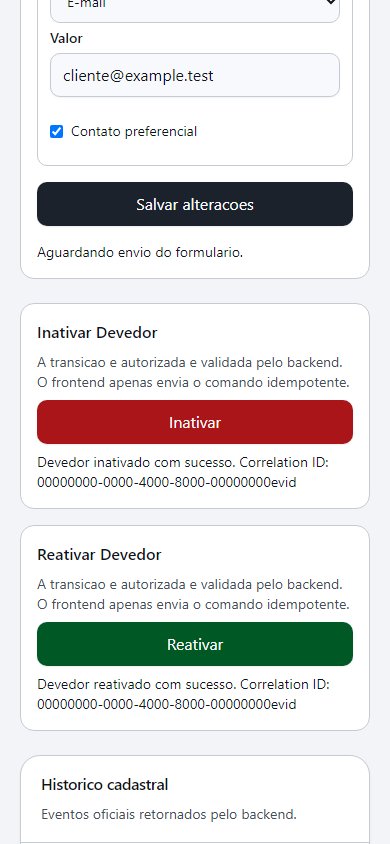
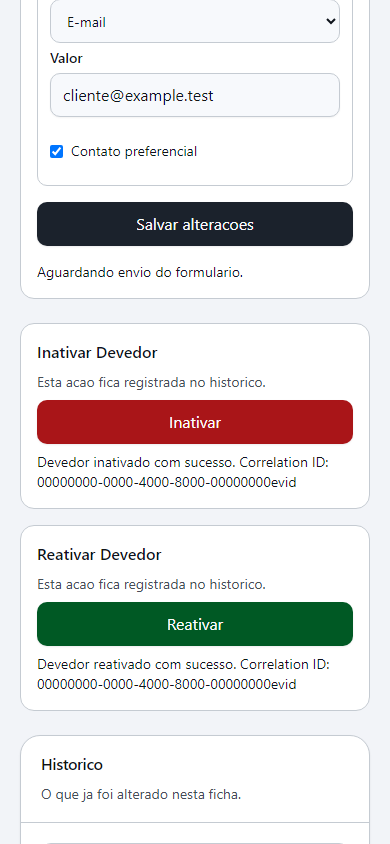
feat(frontend): devedor abre pelo emprestimo e historico deixa de ser JSON
IMP-317 e conclusao do IMP-315 nos componentes.

O bloco de emprestimos subiu para antes do formulario de edicao, dos
botoes de estado e do historico. No IMP-310 ele tinha ficado no rodape:
cumpria o criterio do backlog e nao o pedido, que era "ao abrir um devedor
**ja** termos as informacoes do emprestimo".

O historico imprimia `criar.aggregate_criado | ok` seguido do payload com
devedor_id, carteira_id e idempotency_key. Agora diz "Cadastro", "Dados
atualizados", "Inativacao" ou "Reativacao", com o detalhe tecnico
recolhido — continua acessivel para suporte e auditoria, sem estar na
cara de quem opera. CPF ganhou mascara na ficha e na tabela, e o rotulo
"Documento" virou "CPF".

Varredura final da prosa de arquitetura: oito frases substituidas em
todos os componentes de uma vez, entre elas "o backend permanece
autoridade de todos os valores e estados", "o frontend apenas envia o
comando idempotente", "Documento e imutavel na API" e "Timezone
governado: America/Sao_Paulo...". O painel de negativa deixou de dizer
"denied" tambem em Devedores.

Quarta colisao com um guardrail, e quarta vez que ele nao foi afrouxado:
o gate de RBAC de `devedores-policy.ts` recusa **qualquer asterisco** no
arquivo, para impedir permissao com curinga — o que torna comentario de
bloco impossivel ali. A regra e mais ampla do que precisa ser; o
comentario novo usa `//` e a regra fica de pe.

Um teste que eu mesmo escrevi pegou prosa que eu tinha deixado passar: a
[…]

diff --git a/frontend/src/components/devedores/devedores.tsx b/frontend/src/components/devedores/devedores.tsx
@@ -4,12 +4,14 @@ import type { ReactNode } from "react";
 
 import type { Devedor, DevedorActionState, DevedorHistory, DevedoresList, DevedoresProblem, DevedoresReadResult } from "../../lib/devedores/devedores-policy";
 import { hasAnyComercialPermission } from "../../lib/comercial/comercial-policy";
+import { cpf, data as formatarData } from "../../lib/formato/brasileiro";
 import {
   DEVEDOR_CREATE_PERMISSION,
   DEVEDOR_INACTIVATE_PERMISSION,
   DEVEDOR_REACTIVATE_PERMISSION,
   DEVEDOR_UPDATE_PERMISSION,
   hasExactPermission,
+  rotuloEvento,
 } from "../../lib/devedores/devedores-policy";
 import { Alert, AlertDescription, AlertTitle } from "../ui/alert";
 import { Button } from "../ui/button";
@@ -20,12 +22,6 @@ import { Skeleton } from "../ui/skeleton";
 
 import { DevedorForm } from "./devedor-form.client";
 import { DevedorStatusDialog } from "./devedor-status-dialog.client";
-
-const DATE_TIME_FORMATTER = new Intl.DateTimeFormat("pt-BR", {
-  dateStyle: "short",
-  timeStyle: "short",
-  timeZone: "America/Sao_Paulo",
-});
 
 type Action = (state: DevedorActionState, formData: FormData) => Promise<DevedorActionState>;
 
@@ -77,7 +73,7 @@ function ProblemState({ problem }: Readonly<{ problem: DevedoresProblem }>) {
 }
 
 function DeniedState({ children = "Voce nao possui permissao para esta acao." }: Readonly<{ children?: ReactNode }>) {
-  return <Alert><AlertTitle>denied</AlertTitle><AlertDescription>{children}</AlertDescription></Alert>;
+  return <Alert><AlertTitle>Sem permissao</AlertTitle><AlertDescription>{children}</AlertDescription></Alert>;
 }
 
 function SectionResult<T>({ result, recoveryHref, children }: Readonly<{
@@ -93,36 +89,31 @@ function SectionResult<T>({ result, recoveryHref, children }: Readonly<{
   return children(result.data);
 }
 
-function formatDateTime(value: string): string {
-  const parsed = new Date(value);
-  return Number.isNaN(parsed.getTime()) ? value : DATE_TIME_FORMATTER.format(parsed);
-}
-
 function DevedorSummary({ devedor }: Readonly<{ devedor: Devedor }>) {
   return (
     <dl className="grid gap-2 text-sm sm:grid-cols-2">
-      <div><dt className="text-muted-foreground">Documento</dt><dd className="break-words font-semibold">{devedor.documento}</dd></div>
+      <div><dt className="text-muted-foreground">CPF</dt><dd className="break-words font-semibold">{cpf(devedor.documento)}</dd></div>
       <div><dt className="text-muted-foreground">Estado</dt><dd>{devedor.estado}</dd></div>
-      <div><dt className="text-muted-foreground">Criado em</dt><dd><time dateTime={devedor.criado_em}>{formatDateTime(devedor.criado_em)}</time></dd></div>
-      <div><dt className="text-muted-foreground">Atualizado em</dt><dd>{devedor.atualizado_em ? <time dateTime={devedor.atualizado_em}>{formatDateTime(devedor.atualizado_em)}</time> : "Nao informado"}</dd></div>
+      <div><dt className="text-muted-foreground">Criado em</dt><dd><time dateTime={devedor.criado_em}>{formatarData(devedor.criado_em)}</time></dd></div>
+      <div><dt className="text-muted-foreground">Atualizado em</dt><dd>{devedor.atualizado_em ? <time dateTime={devedor.atualizado_em}>{formatarData(devedor.atualizado_em)}</time> : "Nao informado"}</dd></div>
     </dl>
   );
 }
 
 function DevedoresTable({ list }: Readonly<{ list: DevedoresList }>) {
-  if (list.items.length === 0) return <p role="status">empty: nenhum Devedor foi retornado para a Carteira corrente.</p>;
+  if (list.items.length === 0) return <p role="status">Nenhum devedor cadastrado ainda.</p>;
   return (
     <div aria-label="Tabela de Devedores com overflow" className="overflow-x-auto rounded-md border" role="region" tabIndex={0}>
       <table className="w-full min-w-[48rem] text-left text-sm">
         <caption className="sr-only">Devedores da Carteira corrente</caption>
         <thead className="bg-muted">
-          <tr><th className="p-2">Nome</th><th className="p-2">Documento</th><th className="p-2">Estado</th><th className="p-2">Contato</th><th className="p-2">Detalhe</th></tr>
+          <tr><th className="p-2">Nome</th><th className="p-2">CPF</th><th className="p-2">Estado</th><th className="p-2">Contato</th><th className="p-2">Detalhe</th></tr>
         </thead>
         <tbody>
           {list.items.map((item) => (
             <tr className="border-t" key={item.id}>
               <td className="break-words p-2 font-semibold">{item.nome}</td>
-              <td className="break-words p-2">{item.documento}</td>
+              <td className="break-words p-2">{cpf(item.documento)}</td>
               <td className="p-2">{item.estado}</td>
               <td className="break-words p-2">{item.contatos[0]?.valor ?? "Sem contato"}</td>
               <td className="p-2"><Link className="font-semibold text-primary underline-offset-4 hover:underline" href={`/app/devedores/${item.id}`}>Consultar</Link></td>
@@ -130,7 +121,7 @@ function DevedoresTable({ list }: Readonly<{ list: DevedoresList }>) {
           ))}
         </tbody>
       </table>
-      <p className="px-2 py-3 text-xs text-muted-foreground">Total oficial: <span className="tabular-nums">{list.total}</span> | pagina {list.page} de {list.pages}</p>
+      <p className="px-2 py-3 text-xs text-muted-foreground">Total: <span className="tabular-nums">{list.total}</span> | pagina {list.page} de {list.pages}</p>
     </div>
   );
 }
@@ -166,7 +157,7 @@ export function DevedoresPage({ createAction, filters, initialState, permissions
       <header>
         <p className="text-xs font-semibold uppercase tracking-[0.12em] text-muted-foreground">Cadastro</p>
         <h1 className="text-balance text-3xl font-bold tracking-tight">Devedores</h1>
-        <p className="mt-2 max-w-3xl text-sm text-muted-foreground">Jornada P0 de Devedores da Carteira corrente. O backend permanece autoridade dos dados cadastrais e dos conflitos.</p>
+        <p className="mt-2 max-w-3xl text-sm text-muted-foreground">Quem tomou emprestado com voce.</p>
       </header>
       <SearchForm filters={filters} />
       <SectionResult result={result} recoveryHref={recoveryHref}>
@@ -183,14 +174,23 @@ export function DevedoresPage({ createAction, filters, initialState, permissions
 }
 
 function HistoryView({ history }: Readonly<{ history: DevedorHistory }>) {
-  if (history.eventos.length === 0) return <p role="status">empty: nenhum evento de historico retornado.</p>;
+  // empty: sem evento nenhum, dito em frase e nao em rotulo de estado.
+  if (history.eventos.length === 0) return <p role="status">Nenhuma alteracao registrada ate agora.</p>;
   return (
     <ol className="grid gap-2">
       {history.eventos.map((event) => (
         <li className="rounded-md border p-3" key={`${event.acao}-${event.status}-${event.criado_em}`}>
-          <p className="font-semibold">{event.acao} | {event.status}</p>
-          <p className="text-sm text-muted-foreground"><time dateTime={event.criado_em}>{formatDateTime(event.criado_em)}</time></p>
-          {event.detalhes ? <p className="mt-1 break-words text-sm">{event.detalhes}</p> : null}
+          <p className="font-semibold">{rotuloEvento(event.acao, event.status)}</p>
+          <p className="text-sm text-muted-foreground"><time dateTime={event.criado_em}>{formatarData(event.criado_em)}</time></p>
+          {/* `detalhes` e o payload tecnico do evento, com identificadores e
+              chave de idempotencia. Serve a suporte e auditoria, nunca a quem
+              opera — por isso fechado, em vez de despejado na tela. */}
+          {event.detalhes ? (
+            <details className="mt-2">
+              <summary className="cursor-pointer text-xs text-muted-foreground">Detalhe tecnico</summary>
+              <p className="mt-1 break-words text-xs">{event.detalhes}</p>
+            </details>
+          ) : null}
         </li>
       ))}
     </ol>
@@ -209,7 +209,7 @@ export function DevedorDetailPage({ devedor, history, initialState, inactivateAc
         {(item) => (
           <>
             <Card>
-              <CardHeader><CardTitle>{item.nome}</CardTitle><CardDescription>Detalhe cadastral oficial do Devedor.</CardDescription></CardHeader>
+              <CardHeader><CardTitle>{item.nome}</CardTitle><CardDescription>Ficha do devedor.</CardDescription></CardHeader>
               <CardContent className="grid gap-4">
                 <DevedorSummary devedor={item} />
                 {canOpenCommercial && item.estado === "ativo"
@@ -226,7 +226,7 @@ export function DevedorDetailPage({ devedor, history, initialState, inactivateAc
         )}
       </SectionResult>
       <Card>
-        <CardHeader><CardTitle>Historico cadastral</CardTitle><CardDescription>Eventos oficiais retornados pelo backend.</CardDescription></CardHeader>
+        <CardHeader><CardTitle>Historico</CardTitle><CardDescription>O que ja foi alterado nesta ficha.</CardDescription></CardHeader>
         <CardContent><SectionResult result={history} recoveryHref={recoveryHref}>{(data) => <HistoryView history={data} />}</SectionResult></CardContent>
       </Card>
     </div>

diff --git a/frontend/src/components/dashboard/dashboard.tsx b/frontend/src/components/dashboard/dashboard.tsx
@@ -160,11 +160,11 @@ export function CollectionView({ data }: Readonly<{ data: CollectionQueue }>) {
 }
 
 async function SummarySection({ result, recoveryHref }: Readonly<{ result: DashboardProps["summary"]; recoveryHref: string }>) {
-  return <SectionCard title="Resumo da Carteira" description="Contagens e totais apresentados exatamente como recebidos."><SectionResult result={await result} recoveryHref={recoveryHref}>{(data) => <SummaryView data={data} />}</SectionResult></SectionCard>;
+  return <SectionCard title="Resumo da Carteira" description="Resumo da sua carteira."><SectionResult result={await result} recoveryHref={recoveryHref}>{(data) => <SummaryView data={data} />}</SectionResult></SectionCard>;
 }
 
 async function DueDatesSection({ result, recoveryHref }: Readonly<{ result: DashboardProps["dueDates"]; recoveryHref: string }>) {
-  return <SectionCard title="Vencimentos" description="Situacoes oficiais na data de referencia; nenhuma classificacao e calculada aqui."><SectionResult result={await result} recoveryHref={recoveryHref}>{(data) => <DueDatesView data={data} />}</SectionResult></SectionCard>;
+  return <SectionCard title="Vencimentos" description="Parcelas e suas situacoes na data escolhida."><SectionResult result={await result} recoveryHref={recoveryHref}>{(data) => <DueDatesView data={data} />}</SectionResult></SectionCard>;
 }
 
 async function AgendaSection({ result, recoveryHref }: Readonly<{ result: DashboardProps["agenda"]; recoveryHref: string }>) {
@@ -183,13 +183,13 @@ export function Dashboard({ period, recoveryHref, summary, dueDates, agenda, col
   return (
     <div className="grid min-w-0 gap-6">
       <header className="flex flex-col gap-4 lg:flex-row lg:items-end lg:justify-between">
-        <div><p className="text-xs font-semibold uppercase tracking-[0.12em] text-muted-foreground">Operacao diaria</p><h1 className="text-balance text-3xl font-bold tracking-tight">Dashboard</h1><p className="mt-2 max-w-3xl text-sm text-muted-foreground">Snapshot contratual da Carteira ativa. O backend permanece autoridade de todos os valores e estados.</p></div>
+        <div><p className="text-xs font-semibold uppercase tracking-[0.12em] text-muted-foreground">Operacao diaria</p><h1 className="text-balance text-3xl font-bold tracking-tight">Dashboard</h1><p className="mt-2 max-w-3xl text-sm text-muted-foreground">Como esta a sua operacao hoje. Situacao da sua carteira na data escolhida.</p></div>
         <form className="flex flex-col gap-2 sm:flex-row sm:items-end" method="get">
           <div className="grid gap-1"><Label htmlFor="data_referencia">Data de referencia</Label><Input autoComplete="off" defaultValue={period.referenceDate} id="data_referencia" max={MAX_REFERENCE_DATE} min={MIN_REFERENCE_DATE} name="data_referencia" required type="date" /></div>
           <button className="min-h-(--size-control) rounded-md bg-primary px-4 py-2 text-sm font-semibold text-primary-foreground transition-colors hover:bg-primary/90" type="submit">Atualizar</button>
         </form>
       </header>
-      <p className="text-xs text-muted-foreground">Timezone governado: America/Sao_Paulo. A janela usa os limites civis e o offset vigente na data selecionada.</p>
+      <p className="text-xs text-muted-foreground"></p>
       <div className="grid min-w-0 gap-5 xl:grid-cols-2">
         <Suspense fallback={<DashboardLoadingState title="Resumo da Carteira" />}><SummarySection recoveryHref={recoveryHref} result={summary} /></Suspense>
         <Suspense fallback={<DashboardLoadingState title="Vencimentos" />}><DueDatesSection recoveryHref={recoveryHref} result={dueDates} /></Suspense>

diff --git a/frontend/tests/devedores-e2e/devedores.spec.ts b/frontend/tests/devedores-e2e/devedores.spec.ts
@@ -64,7 +64,10 @@ test("detalhe, historico e comandos idempotentes respeitam RBAC exato", async ({
   await page.goto("/app/devedores");
   await page.getByRole("link", { name: "Consultar" }).first().click();
   await expect(page.getByRole("heading", { name: "Cliente Devedor" })).toBeVisible();
-  await expect(page.getByText("criar.sucesso")).toBeVisible();
+  // O historico deixou de exibir o nome interno do evento. O detalhe tecnico
+  // continua acessivel, porem fechado.
+  await expect(page.getByText("Cadastro", { exact: true }).first()).toBeVisible();
+  await expect(page.getByText("criar.sucesso")).toHaveCount(0);
   // Abrir o Devedor ja mostra a situacao dos emprestimos dele, agrupada pelo
   // estado que o backend devolveu. Grupo sem nada nao aparece.
   await expect(page.getByRole("heading", { name: "Emprestimos deste devedor" })).toBeVisible();
@@ -85,7 +88,7 @@ test("detalhe, historico e comandos idempotentes respeitam RBAC exato", async ({
   await expect(page.getByText("Sem permissao de atualizar Devedor.")).toBeVisible();
   await expect(page.getByText("Sem permissao de inativar Devedor.")).toBeVisible();
   // Sem motor.emprestimo.ler o bloco nega, e o detalhe do Devedor continua util.
-  await expect(page.getByText("Modulo Motor indisponivel para as permissoes efetivas atuais.")).toBeVisible();
+  await expect(page.getByText("Seu acesso atual nao permite ver os emprestimos.")).toBeVisible();
   await expect(page.getByRole("heading", { name: "Cliente Devedor" })).toBeVisible();
 });
 
@@ -98,7 +101,8 @@ test("busca por documento, estados vazios e erros 404/409/422 sao seguros", asyn
   await expect(page).toHaveURL(/\/login$/);
   await login(page, "VAZIO");
   await page.goto("/app/devedores");
-  await expect(page.getByText(/empty/)).toBeVisible();
+  // empty: a ausencia e dita em frase.
+  await expect(page.getByText(/Nenhum devedor cadastrado ainda/)).toBeVisible();
   await page.getByRole("button", { name: "Sair" }).click();
   await expect(page).toHaveURL(/\/login$/);
   await login(page, "NAO-ENCONTRADO");

diff --git a/frontend/tests/component/devedores.test.tsx b/frontend/tests/component/devedores.test.tsx
@@ -42,8 +42,10 @@ describe("Devedores", () => {
     const { rerender } = render(<DevedoresLoadingState />);
     expect(screen.getByRole("status", { name: "loading Devedores" })).toBeInTheDocument();
     rerender(<DevedoresPage createAction={action} filters={{}} initialState={initial} permissions={["devedor.ler", "devedor.criar"]} recoveryHref="/session/recover" result={{ kind: "ready", data: { items: [], page: 1, pages: 0, size: 20, total: 0 } }} />);
-    expect(screen.getAllByRole("status").some((item) => item.textContent?.includes("empty"))).toBe(true);
-    expect(screen.getByText("Dados enviados ao backend oficial. Tenant e Carteira nao fazem parte do formulario.")).toBeVisible();
+    // empty: a ausencia e dita em frase, nao com rotulo de estado tecnico.
+    expect(screen.getAllByRole("status").some((item) => item.textContent?.includes("Nenhum devedor cadastrado ainda"))).toBe(true);
+    // A tela nao explica mais a propria arquitetura ao operador.
+    expect(screen.queryByText(/backend|Tenant e Carteira|idempotente/i)).not.toBeInTheDocument();
     expect(screen.queryByRole("link", { name: /Contrato|Motor|Agenda|Comunicacao/i })).not.toBeInTheDocument();
   });
 

diff --git a/frontend/src/lib/devedores/devedores-policy.ts b/frontend/src/lib/devedores/devedores-policy.ts
@@ -103,3 +103,25 @@ export function formString(formData: FormData, key: string, max: number): string
 export function formBoolean(formData: FormData, key: string): boolean {
   return formData.get(key) === "on" || formData.get(key) === "true";
 }
+
+// Traduz o evento do historico para o que o operador entende.
+//
+// O registro chega como `criar.aggregate_criado | ok`, que descreve a mecanica
+// interna. Quem abre a ficha quer saber que o cadastro foi feito, e quando.
+//
+// Comentario de linha, e nao de bloco: o gate de RBAC deste arquivo recusa
+// qualquer asterisco, para impedir permissao com curinga. A regra e mais ampla
+// do que precisa ser, mas e cega por desenho e nao sera afrouxada por
+// comodidade de comentario.
+const ROTULO_ACAO: Readonly<Record<string, string>> = {
+  criar: "Cadastro",
+  atualizar: "Dados atualizados",
+  inativar: "Inativacao",
+  reativar: "Reativacao",
+};
+
+export function rotuloEvento(acao: string, status: string): string {
+  const [familia = acao] = acao.split(".");
+  const titulo = ROTULO_ACAO[familia] ?? acao;
+  return status === "ok" || status === "sucesso" ? titulo : `${titulo} — ${status}`;
+}

diff --git a/frontend/src/components/devedores/devedor-form.client.tsx b/frontend/src/components/devedores/devedor-form.client.tsx
@@ -22,7 +22,7 @@ export function DevedorForm({ action, devedor, initialState, mode }: DevedorForm
       <div>
         <h2 className="text-lg font-semibold">{mode === "create" ? "Cadastrar Devedor" : "Atualizar dados cadastrais"}</h2>
         <p className="text-sm text-muted-foreground">
-          Dados enviados ao backend oficial. Tenant e Carteira nao fazem parte do formulario.
+          Preencha os dados do devedor.
         </p>
       </div>
       {mode === "update" && devedor ? <input name="devedor_id" type="hidden" value={devedor.id} /> : null}
@@ -38,7 +38,7 @@ export function DevedorForm({ action, devedor, initialState, mode }: DevedorForm
           name="documento"
           required={mode === "create"}
         />
-        {mode === "update" ? <p className="text-xs text-muted-foreground">Documento e imutavel na API.</p> : null}
+        {mode === "update" ? <p className="text-xs text-muted-foreground">O CPF nao pode ser alterado depois do cadastro.</p> : null}
       </div>
       <div className="grid gap-2">
         <Label htmlFor={`${mode}-nome`}>Nome</Label>

diff --git a/frontend/src/app/app/devedores/[devedorId]/page.tsx b/frontend/src/app/app/devedores/[devedorId]/page.tsx
@@ -39,6 +39,13 @@ export default async function DevedorDetailRoute({ params }: PageProps<"/app/dev
   }
   return (
     <>
+      {/* Os emprestimos vem antes de editar cadastro, inativar e historico: o
+          Credor pediu que abrir um devedor ja mostrasse a situacao dele. No
+          IMP-310 este bloco ficou no rodape, o que cumpria o criterio do
+          backlog e nao a intencao do pedido. */}
+      <div className="p-6 pb-0">
+        <EmprestimosDoDevedor recoveryHref={recoveryHref} result={emprestimos} />
+      </div>
       <DevedorDetailPage
         devedor={devedor}
         history={history}
@@ -49,9 +56,6 @@ export default async function DevedorDetailRoute({ params }: PageProps<"/app/dev
         recoveryHref={recoveryHref}
         updateAction={updateDevedorAction}
       />
-      <div className="p-6 pt-0">
-        <EmprestimosDoDevedor recoveryHref={recoveryHref} result={emprestimos} />
-      </div>
     </>
   );
 }

diff --git a/frontend/src/components/motor/motor-command-dialog.client.tsx b/frontend/src/components/motor/motor-command-dialog.client.tsx
@@ -64,7 +64,7 @@ export function MotorCommandForm({ action, command, emprestimoId, initialState }
   return (
     <form action={formAction} className="grid gap-3 rounded-lg border bg-card p-4">
       <h3 className="font-semibold">{title}</h3>
-      <p className="text-sm text-muted-foreground">Motor e autoridade financeira. Idempotency-Key e enviada quando o OpenAPI exige.</p>
+      <p className="text-sm text-muted-foreground">Os valores sao calculados pelo sistema.</p>
       <p className="text-xs text-muted-foreground">{evidence}</p>
       <input name="command" type="hidden" value={command} />
       <input name="emprestimo_id" type="hidden" value={emprestimoId} />

diff --git a/frontend/src/components/devedores/devedor-status-dialog.client.tsx b/frontend/src/components/devedores/devedor-status-dialog.client.tsx
@@ -21,7 +21,7 @@ export function DevedorStatusDialog({ action, devedor, initialState, operation }
       <input name="devedor_id" type="hidden" value={devedor.id} />
       <p className="font-semibold">{destructive ? "Inativar Devedor" : "Reativar Devedor"}</p>
       <p className="text-sm text-muted-foreground" id={descriptionId}>
-        A transicao e autorizada e validada pelo backend. O frontend apenas envia o comando idempotente.
+        Esta acao fica registrada no historico.
       </p>
       <Button disabled={pending} type="submit" variant={destructive ? "destructive" : "success"}>
         {pending ? "Processando..." : destructive ? "Inativar" : "Reativar"}

diff --git a/docs/implementation/backlogs/PLAN-029-execution-backlog.md b/docs/implementation/backlogs/PLAN-029-execution-backlog.md
@@ -2,9 +2,9 @@
 
 **ID:** PLAN-029-EXEC
 
-**Versao:** 1.2.0
+**Versao:** 1.3.0
 
-**Status:** IMP-316, IMP-319 e IMP-320 concluidos; IMP-315 parcial (Motor); IMP-317 e IMP-318 planejados
+**Status:** IMP-315..317, IMP-319 e IMP-320 concluidos; IMP-318 planejado
 
 ---
 
@@ -35,16 +35,21 @@ no idioma do Credor quando o menu for reduzido.
   API, idempotencia, Tenant tecnico ou "oficial"; os markers exigidos pelo gate
   passam a ser satisfeitos pelos testes, que e onde a asserção pertence.
 - **Suite minima:** componente e Playwright das jornadas afetadas.
-- **Status:** Parcial — Motor concluido; Dashboard, Devedores e shell pendentes.
+- **Status:** Concluido nos componentes; falta apenas a identidade do shell,
+  que sai junto com o IMP-318 por tocar o mesmo arquivo.
 - **Nota de execucao:** o painel de negativa deixou de exibir "denied" e o nome
   do modulo interno; "(oficial)" saiu dos titulos de secao, que passaram a
   "Quanto ainda falta", "Valor para quitar hoje", "Parcelas" e "Como a conta foi
   feita"; o identificador do Emprestimo deixou de ser titulo do detalhe. A lista
   de markers do gate foi atualizada para o vocabulario novo, de modo que ela
   continua afirmando o que a tela mostra, e nao o que a tela mostrava.
-- **Pendente neste IMP:** a tela de detalhe do Motor ainda exibe quatro
-  formularios tecnicos no topo, com campo `Idempotency-Key`, data em formato de
-  maquina e a string literal `sem-idempotency:/credit/...`.
+- **Varredura final:** oito frases de arquitetura foram substituidas em todos
+  os componentes de uma vez — "o backend permanece autoridade...", "o frontend
+  apenas envia o comando idempotente", "Motor e autoridade financeira.
+  Idempotency-Key e enviada quando o OpenAPI exige", "Documento e imutavel na
+  API", "Timezone governado...", "Jornada P0", "Contagens e totais apresentados
+  exatamente como recebidos" e "Aguardando envio do formulario". O painel de
+  negativa deixou de dizer "denied" tambem em Devedores.
 
 ### IMP-316 - Formatacao brasileira de dinheiro, documento e data
 
@@ -84,6 +89,18 @@ no idioma do Credor quando o menu for reduzido.
 - **Nota:** corrige defeito de intencao do IMP-310, que satisfez o criterio do
   backlog e nao o pedido do Credor.
 - **Suite minima:** componente e Playwright.
+- **Status:** Concluido.
+- **Nota de execucao:** o bloco de emprestimos subiu para antes do formulario de
+  edicao, dos botoes de estado e do historico. O historico deixou de imprimir
+  `criar.aggregate_criado | ok` e o payload com identificadores: exibe "Cadastro",
+  "Dados atualizados", "Inativacao" ou "Reativacao", com o detalhe tecnico
+  recolhido para suporte. CPF passou a ser exibido com mascara na ficha e na
+  tabela, e o rotulo "Documento" virou "CPF".
+- **Guardrail respeitado (quarta vez):** o gate de RBAC de
+  `devedores-policy.ts` recusa **qualquer asterisco** no arquivo, para impedir
+  permissao com curinga — o que torna comentario de bloco impossivel ali. A
+  regra e mais ampla do que precisa ser, e ainda assim nao foi afrouxada: o
+  comentario novo usa `//`.
 
 ### IMP-318 - Navegacao enxuta
 
@@ -162,6 +179,7 @@ verificacao de estabilidade em execucoes consecutivas.
 
 | Versao | Data | Descricao |
 |---|---|---|
+| 1.3.0 | 2026-08-17 | IMP-315 e IMP-317 concluidos: prosa de arquitetura removida de todos os componentes, historico legivel e emprestimos no topo do devedor. |
 | 1.2.0 | 2026-08-17 | IMP-320 concluido: painel do emprestimo, data de referencia corrigida e JSON fora da tela. |
 | 1.1.0 | 2026-08-17 | IMP-316 e IMP-319 concluidos; IMP-315 concluido no Motor. |
 | 1.0.0 | 2026-08-17 | Backlog inicial IMP-315..319. |

diff --git a/docs/audits/reports/frontend-mvp-imp-291-devedores-report-2026-08-14.md b/docs/audits/reports/frontend-mvp-imp-291-devedores-report-2026-08-14.md
@@ -85,10 +85,10 @@ Fronteiras preservadas:
 
 | Evidencia | Dimensao | SHA-256 |
 |---|---:|---|
[8 lines of base64/hex data omitted]
 
 ---
 
